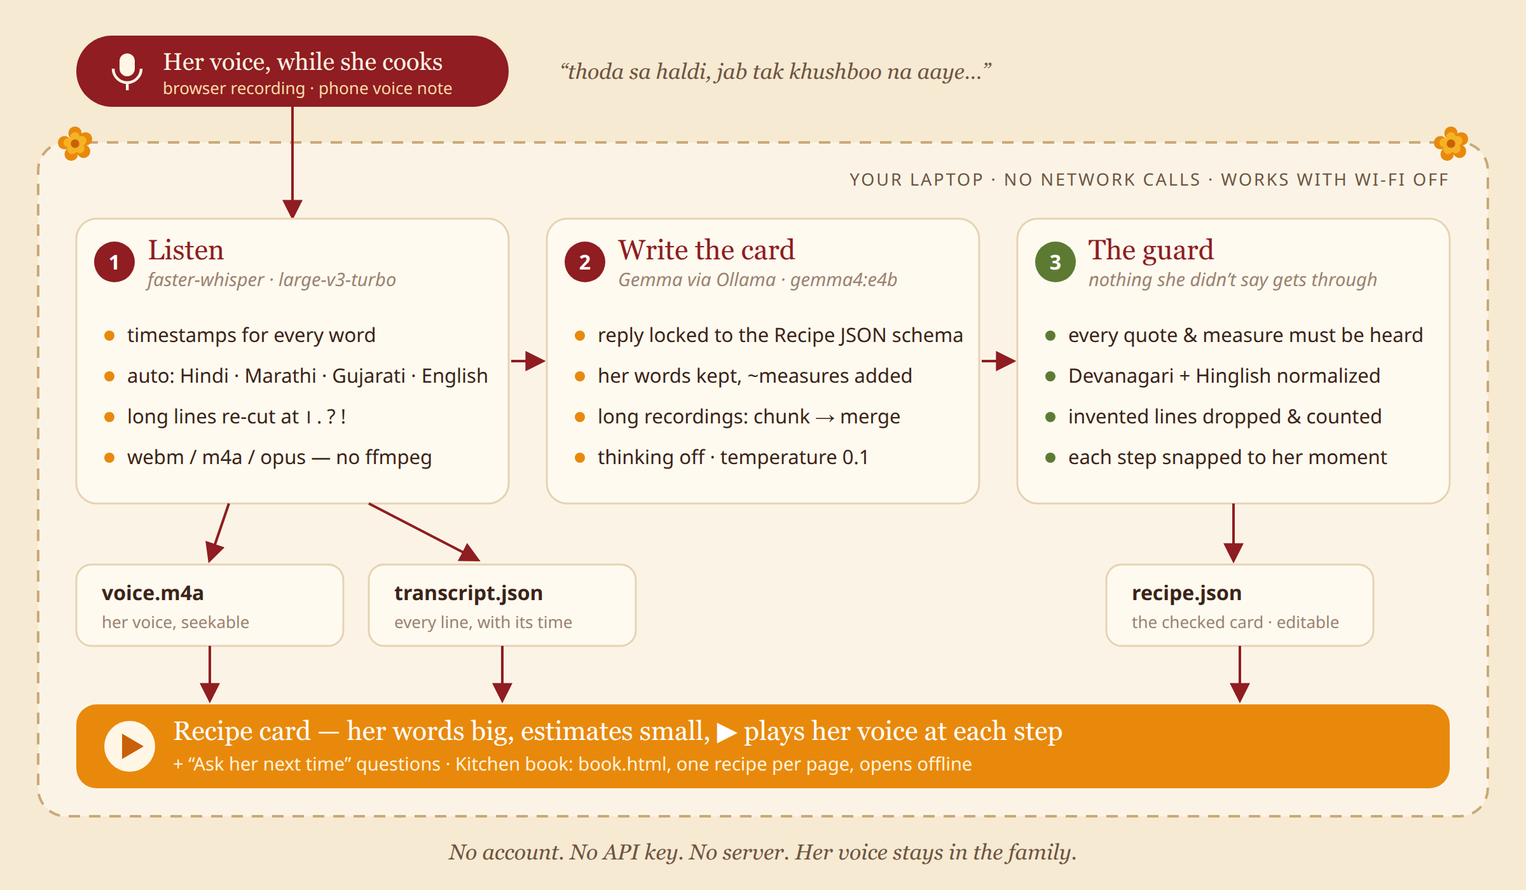
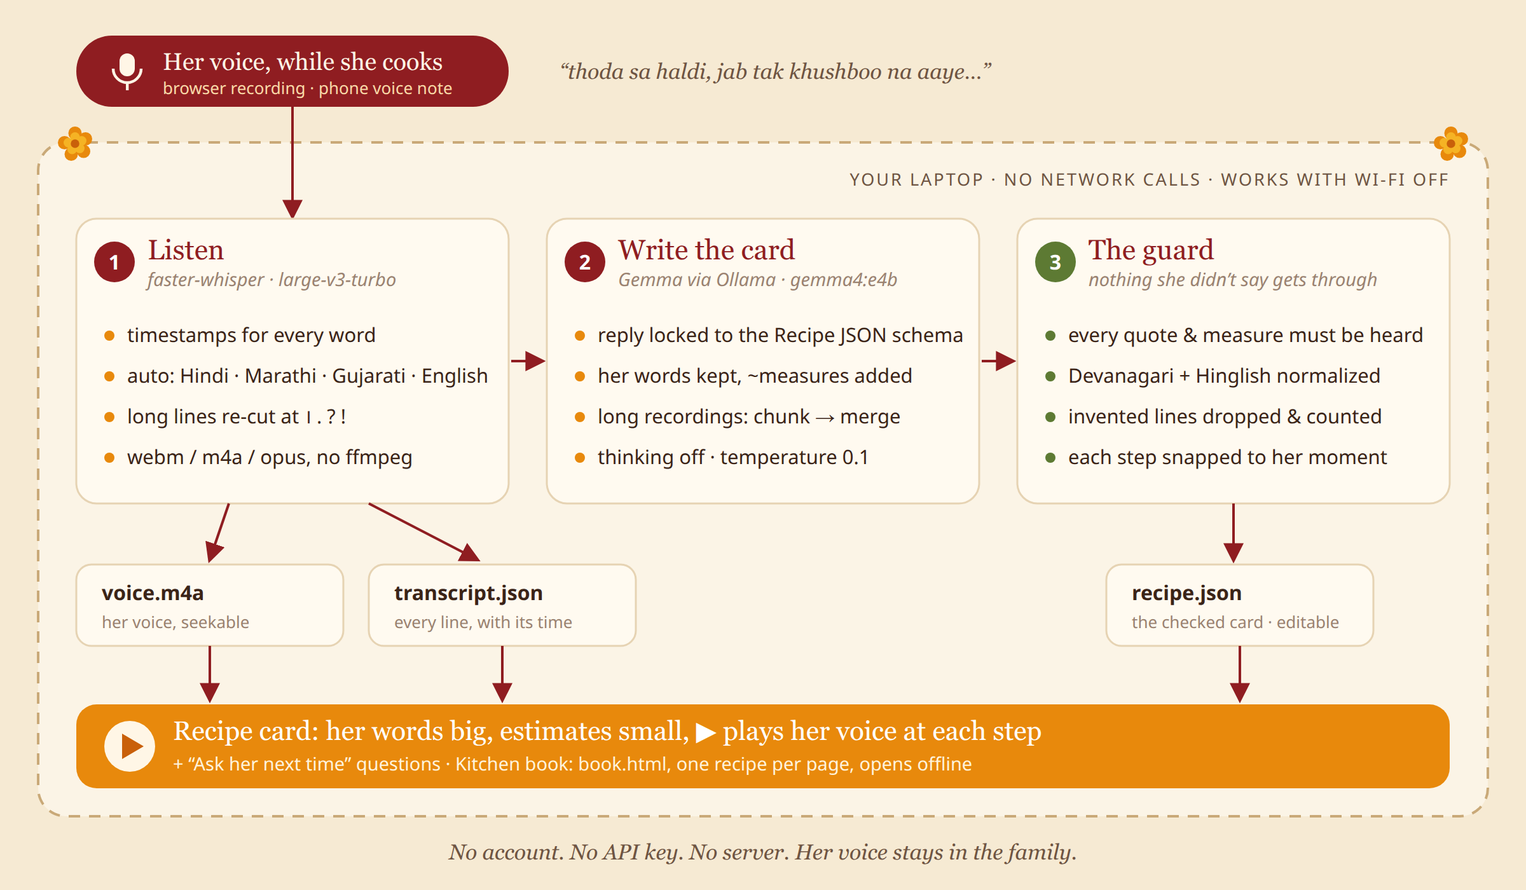
changes

Changed region(s): [[0.2188, 0.7986, 0.6875, 0.86], [0.1875, 0.4914, 0.2812, 0.5221]]

diff --git a/src/haath/static/app.js b/src/haath/static/app.js
@@ -1,9 +1,9 @@
-// Haath ka Swaad — plain JS, no build step, no network beyond 127.0.0.1.
+// Haath ka Swaad: plain JS, no build step, no network beyond 127.0.0.1.
 
 const $ = (sel, root = document) => root.querySelector(sel);
 const app = $("#app");
 
-// el("div", {class: "x", onclick: fn}, "text", child) — never uses innerHTML for data.
+// el("div", {class: "x", onclick: fn}, "text", child). Never uses innerHTML for data.
 function el(tag, attrs = {}, ...children) {
   const node = tag === "svg-use" ? svgUse(attrs.href, attrs.class) : document.createElement(tag);
   if (tag !== "svg-use") {
@@ -208,8 +208,8 @@ function recordPanel() {
     banner();
     if (!navigator.mediaDevices?.getUserMedia || !window.MediaRecorder) {
       banner("This browser can't record here.", window.isSecureContext
-        ? "use Chrome, Edge, Firefox or Safari — or upload a voice note"
-        : "phones need https: start it with  haath ui --lan  and open the https:// address — or upload a voice note");
+        ? "use Chrome, Edge, Firefox or Safari, or upload a voice note"
+        : "phones need https: start it with  haath ui --lan  and open the https:// address, or upload a voice note");
       return;
     }
     try {
@@ -266,7 +266,7 @@ function recordPanel() {
     const url = URL.createObjectURL(blob);
     preview.replaceChildren(
       el("audio", { controls: true, src: url }),
-      el("p", { class: "small muted" }, `${fmt(secs)} recorded. Listen back, then save — or record again.`),
+      el("p", { class: "small muted" }, `${fmt(secs)} recorded. Listen back, then save, or record again.`),
       el("div", { class: "row", style: "justify-content:center" },
         el("button", { class: "btn primary", onclick: () => send(blob, filename) }, "Save to the kitchen"),
         el("button", { class: "btn ghost", onclick: () => { preview.hidden = true; timer.textContent = "0:00"; } }, "Discard")));
@@ -347,7 +347,7 @@ async function renderRecipe(rid) {
           ? [el("p", { class: "big" }, el("span", { class: "busy-dot" }), STATUS[meta.status] + "…"),
              el("p", { class: "muted" }, meta.message || ""),
              el("div", { class: "progress", style: "max-width:360px;margin:10px auto" }, el("div", { style: `width:${Math.round((meta.progress || 0) * 100)}%` })),
-             el("p", { class: "small muted" }, "You can close this page — it keeps working. A 30-minute recording can take a while on a laptop.")]
+             el("p", { class: "small muted" }, "You can close this page; it keeps working. A 30-minute recording can take a while on a laptop.")]
           : [el("p", { class: "big", style: "color:var(--red)" }, meta.error || "Something went wrong."),
              meta.fix ? el("p", { class: "fix" }, "Fix: ", el("code", {}, meta.fix)) : null,
              el("div", { class: "row", style: "justify-content:center;margin-top:14px" },
@@ -366,7 +366,7 @@ async function renderRecipe(rid) {
   const stepEls = steps.map((s, i) =>
     el("li", { class: "step", "data-start": s.start_sec },
       el("button", { class: "play", type: "button", "aria-label": `Play ${who}'s voice for step ${i + 1}`, title: `Hear ${who} at ${fmt(s.start_sec)}`,
-        onclick: () => playFrom(rid, s.start_sec, `${who} — step ${i + 1}`, nextStart(i)) },
+        onclick: () => playFrom(rid, s.start_sec, `${who} · step ${i + 1}`, nextStart(i)) },
         el("span", { class: "num" }, i + 1), icon("play")),
       el("div", {},
         el("div", { class: "text" }, s.text),
@@ -375,7 +375,7 @@ async function renderRecipe(rid) {
 
   const segEls = (transcript?.segments || []).map((g) =>
     el("div", { class: "seg", "data-start": g.start, "data-end": g.end },
-      el("button", { onclick: () => playFrom(rid, g.start, `${who} — ${fmt(g.start)}`) }, fmt(g.start)),
+      el("button", { onclick: () => playFrom(rid, g.start, `${who} · ${fmt(g.start)}`) }, fmt(g.start)),
       el("span", {}, g.text)));
 
   onTimeHook = (t) => {
@@ -394,14 +394,14 @@ async function renderRecipe(rid) {
       el("span", { class: "muted" }, [meta.duration ? ` · ${fmt(meta.duration)} of her voice` : "", lang ? ` · ${lang}` : ""].join(""))),
     recipe.story ? el("p", { class: "story" }, recipe.story) : null,
     el("div", { class: "toolbar" },
-      el("button", { class: "btn primary", onclick: () => playFrom(rid, 0, `${who} — from the start`) }, icon("play"), "Hear her from the start"),
+      el("button", { class: "btn primary", onclick: () => playFrom(rid, 0, `${who} · from the start`) }, icon("play"), "Hear her from the start"),
       el("a", { class: "btn", href: `#/r/${rid}/edit` }, "Edit"),
       el("button", { class: "btn ghost", onclick: () => window.print() }, "Print"),
       el("button", { class: "btn ghost", title: `Re-run ${STATUS_INFO.model || "the model"} on the same transcript`, onclick: () => redo(rid, false, meta.edited) }, "Re-write"),
       el("button", { class: "btn ghost", onclick: () => trash(rid, meta) }, "Delete")),
     meta.dropped
       ? el("details", { class: "guard" },
-          el("summary", {}, `✓ Checked against her recording — ${meta.dropped} line${meta.dropped > 1 ? "s" : ""} the model wrote but she never said ${meta.dropped > 1 ? "were" : "was"} removed.`),
+          el("summary", {}, `✓ Checked against her recording: ${meta.dropped} line${meta.dropped > 1 ? "s" : ""} the model wrote but she never said ${meta.dropped > 1 ? "were" : "was"} removed.`),
           el("ul", {}, meta.dropped_items.map((d) => el("li", {}, d))))
       : el("div", { class: "guard" }, "✓ Every quote and measure below was checked against her recording."),
 
@@ -410,8 +410,8 @@ async function renderRecipe(rid) {
         el("li", { class: "ing" },
           g.her_words ? el("div", { class: "her" }, g.her_words) : null,
           el("div", { class: "name" }, g.name),
-          g.approx ? el("div", { class: "approx", title: `Approximate — ${g.confidence} confidence` }, g.approx, " approx.", el("span", { class: "conf " + g.confidence })) : null))),
-      el("p", { class: "small muted", style: "margin-top:8px" }, "Big writing is how she said it. Small measures are estimates — trust her words first.")),
+          g.approx ? el("div", { class: "approx", title: `Approximate, ${g.confidence} confidence` }, g.approx, " approx.", el("span", { class: "conf " + g.confidence })) : null))),
+      el("p", { class: "small muted", style: "margin-top:8px" }, "Big writing is how she said it. Small measures are estimates, so trust her words first.")),
 
     section("Method", "diya", el("ol", { class: "steps" }, stepEls),
       el("p", { class: "small muted" }, "Press ▶ to hear her explain that step in her own voice.")),
@@ -424,12 +424,12 @@ async function renderRecipe(rid) {
       : null,
 
     recipe.quotes.length
-      ? section("In her words", null, el("div", { class: "quotes" }, recipe.quotes.map((q) => el("blockquote", {}, q, el("cite", {}, "— " + who)))))
+      ? section("In her words", null, el("div", { class: "quotes" }, recipe.quotes.map((q) => el("blockquote", {}, q, el("cite", {}, "· " + who)))))
       : null,
 
     recipe.ask_next_time.length
       ? section("Ask her next time", null, el("ul", { class: "asks" }, recipe.ask_next_time.map((q) => el("li", {}, q))),
-          el("p", { class: "small muted" }, "Little gaps in the recipe. Ask while you still can — then fix the card with Edit."))
+          el("p", { class: "small muted" }, "Little gaps in the recipe. Ask while you still can, then fix the card with Edit."))
       : null,
 
     transcript
@@ -476,7 +476,7 @@ async function renderEdit(rid) {
   const area = (obj, key, attrs = {}) => el("textarea", { oninput: (e) => (obj[key] = e.target.value), ...attrs }, obj[key] ?? "");
   const listArea = (key, label, hint) => {
     const t = el("textarea", { id: "f-" + key, oninput: (e) => (r[key] = e.target.value.split("\n").map((s) => s.trim()).filter(Boolean)) }, r[key].join("\n"));
-    return el("div", { class: "field" }, el("label", { for: "f-" + key }, label, el("span", { class: "muted" }, " — " + hint)), t);
+    return el("div", { class: "field" }, el("label", { for: "f-" + key }, label, el("span", { class: "muted" }, " · " + hint)), t);
   };
 
   const ingBox = el("div", { class: "rowset" });
@@ -510,7 +510,7 @@ async function renderEdit(rid) {
   app.replaceChildren(el("div", { class: "recipe edit" },
     el("a", { class: "back", href: `#/r/${rid}` }, "← Back to the card"),
     el("article", { class: "sheet" },
-      el("p", { class: "kicker" }, "Fix anything by hand — you know her better than the machine does"),
+      el("p", { class: "kicker" }, "Fix anything by hand. You know her better than the machine does"),
       el("h1", { class: "dish" }, "Edit recipe"),
       el("div", { class: "row", style: "margin-top:16px" },
         el("div", { class: "field" }, el("label", {}, "Dish"), input(r, "dish")),
@@ -536,7 +536,7 @@ async function renderEdit(rid) {
 (async () => {
   try {
     STATUS_INFO = await api("/api/status");
-    if (STATUS_INFO.mock) banner("Mock mode: recordings use a sample Dal Baati transcript and reply — no Whisper or Ollama needed.");
+    if (STATUS_INFO.mock) banner("Mock mode: recordings use a sample Dal Baati transcript and reply, no Whisper or Ollama needed.");
     else {
       const { checks } = await api("/api/doctor");
       const bad = checks.find((c) => !c.ok && c.required);

diff --git a/src/haath/static/index.html b/src/haath/static/index.html
@@ -4,7 +4,7 @@
   <meta charset="utf-8">
   <meta name="viewport" content="width=device-width, initial-scale=1, viewport-fit=cover">
   <meta name="theme-color" content="#f6ead3">
-  <title>Haath ka Swaad — family recipes in her own words</title>
+  <title>Haath ka Swaad · family recipes in her own words</title>
   <link rel="icon" href="/static/diya.svg" type="image/svg+xml">
   <link rel="stylesheet" href="/static/fonts.css">
   <link rel="stylesheet" href="/static/app.css">
@@ -62,7 +62,7 @@
   <audio id="voice" preload="metadata"></audio>
 
   <footer class="foot">
-    <p>Everything stays on this laptop. Whisper + Gemma run locally — works with Wi-Fi off.</p>
+    <p>Everything stays on this laptop. Whisper + Gemma run locally and work with Wi-Fi off.</p>
   </footer>
 
   <script src="/static/app.js" type="module"></script>

diff --git a/src/haath/static/fonts.css b/src/haath/static/fonts.css
@@ -1,4 +1,4 @@
-/* Kalam, Tiro Devanagari Hindi, Mukta — SIL Open Font License 1.1, see fonts/OFL-*.txt */
+/* Kalam, Tiro Devanagari Hindi, Mukta, SIL Open Font License 1.1, see fonts/OFL-*.txt */
 @font-face {
   font-family: "Kalam";
   font-style: normal;

diff --git a/src/haath/static/app.css b/src/haath/static/app.css
@@ -1,4 +1,4 @@
-/* Haath ka Swaad — a kitchen notebook, warm paper, marigold and sindoor red. */
+/* Haath ka Swaad: a kitchen notebook, warm paper, marigold and sindoor red. */
 :root {
   --paper: #f6ead3;
   --paper-2: #fbf4e6;

diff --git a/src/haath/llm.py b/src/haath/llm.py
@@ -23,7 +23,7 @@ You turn a home cook's spoken explanation into a family recipe card. She speaks 
 Hindi, Marathi, Gujarati, English or a mix (Hinglish). The transcript comes from \
 speech-to-text, one line per segment, each starting with its time in seconds: [83.4] ...
 
-RULES — follow all of them:
+RULES (follow all of them):
 1. Use ONLY what is in the transcript. Never invent an ingredient, step, tip, story or quote. \
 If she did not say it, leave it out.
 2. Her measures stay exactly as she said them, in `her_words`, copied character-for-character \
@@ -31,25 +31,25 @@ from the transcript in the same script (Devanagari stays Devanagari, Roman stays
 Examples: "ek mutthi atta", "andaaz se namak", "थोड़ा सा हल्दी".
 3. Your estimate goes ONLY in `approx`: a NUMBER with a kitchen unit, starting with "~", \
 e.g. "~1 cup / 120 g", "~1/2 tsp", "~2 tbsp", "~1 pinch". Never write "to taste", "a little" \
-or "plenty" — that is what her_words is for; turn it into your best numeric guess for a family \
+or "plenty"; that is what her_words is for; turn it into your best numeric guess for a family \
 of four. `confidence` is "high" ONLY if she said a number ("do cup", "teen seeti"); "med" for a \
 known household measure ("ek katori", "do mutthi"); "low" for andaaz/thoda sa/khoob sara. \
 If she gave one amount for several things together ("teeno mila ke ek katori"), make ONE \
-ingredient for the mix — do not repeat the amount for each.
+ingredient for the mix; do not repeat the amount for each.
 4. `name` is the ingredient in simple English with her word in brackets: "Turmeric (haldi)", \
 "Semolina (sooji)".
 5. `steps[].text` is a short, clear instruction in simple English, in the order she does \
 them. Combine consecutive lines about the same action into one step. A warning is not a \
-step — put it in `warnings`. `her_cue` is her sensory \
+step; put it in `warnings`. `her_cue` is her sensory \
 cue copied exactly from the transcript ("jab tak tel chhod de", "khushboo aane tak"), \
 or "" if she gave none. `start_sec` is copied exactly from the [time] label of the line where \
 she explains that step.
-6. `quotes`: up to 3 memorable lines copied exactly from the transcript — warmth, wisdom, humour.
+6. `quotes`: up to 3 memorable lines copied exactly from the transcript: warmth, wisdom, humour.
 7. `tips` and `warnings`: only ones she actually said ("dhakkan mat kholna"). English is fine, \
-keep her phrase in brackets. Each goes in one list only — a warning is not also a tip.
-8. `story`: one line about the dish's origin, occasion or who loved it — only if she said so, else "".
+keep her phrase in brackets. Each goes in one list only; a warning is not also a tip.
+8. `story`: one line about the dish's origin, occasion or who loved it, only if she said so, else "".
 9. `ask_next_time`: what SHE skipped or left unclear in THIS transcript, as short questions to ask \
-her — missing times, amounts, temperatures, how many it serves. The style, for a different dish: \
+her: missing times, amounts, temperatures, how many it serves. The style, for a different dish: \
 {examples}. Never copy these; never ask about something she already said.
 10. Speech-to-text makes mistakes. In `name`, `text`, tips you may fix an obvious mistake \
 (e.g. a misheard spice name). Do not guess beyond that. Never change her_words, her_cue or quotes.
@@ -277,7 +277,7 @@ def write_recipe(
 ) -> Recipe:
     """Run Gemma over the transcript (chunked if needed) and return the merged, un-verified Recipe."""
     if not transcript.segments:
-        raise HaathError("The transcript is empty — no speech was heard in the recording.", "check the mic, then record again closer to her (phone ~1 m away)")
+        raise HaathError("The transcript is empty: no speech was heard in the recording.", "check the mic, then record again closer to her (phone ~1 m away)")
     chunks = chunk_segments(transcript.segments, num_ctx)
     if ask is None:
         client = make_client(host)

diff --git a/src/haath/book.py b/src/haath/book.py
@@ -147,7 +147,7 @@ def render_recipe(meta: Meta, r: Recipe, audio_src: str) -> str:
             out.append('<div class="note w"><h4>Careful!</h4><ul>' + "".join(f"<li>{e(t)}</li>" for t in r.warnings) + "</ul></div>")
         out.append("</div>")
     for q in r.quotes:
-        out.append(f"<blockquote>{e(q)} <small>— {who}</small></blockquote>")
+        out.append(f"<blockquote>{e(q)} <small>· {who}</small></blockquote>")
     if r.ask_next_time:
         out.append('<h3>Ask her next time</h3><ul class="asks">' + "".join(f"<li>{e(q)}</li>" for q in r.ask_next_time) + "</ul>")
     out.append(f'<p class="foot">Recorded {e(meta.created[:10])} · kept in recipes/{e(meta.id)}/</p></section>')
@@ -166,17 +166,17 @@ def render_book(archive: Archive, audio_url: Callable[[str], str], inline_assets
     cover = (
         '<section class="page cover">'
         f'<div class="flowers">{MARIGOLD * 5}</div>'
-        '<h1 lang="hi">हाथ का स्वाद</h1><div class="en">Haath ka Swaad — the family kitchen book</div>'
+        '<h1 lang="hi">हाथ का स्वाद</h1><div class="en">Haath ka Swaad · the family kitchen book</div>'
         '<div class="tag">For every recipe that only exists in her hands.</div>'
         + (f'<p class="by">with {escape(", ".join(cooks))}</p>' if cooks else "")
-        + (f'<ul class="toc">{toc}</ul>' if entries else '<p class="by">No finished recipes yet — record one with <b>haath ui</b>.</p>')
+        + (f'<ul class="toc">{toc}</ul>' if entries else '<p class="by">No finished recipes yet. Record one with <b>haath ui</b>.</p>')
         + f'<p class="foot">Made {datetime.now():%d %B %Y} · everything in this book stayed on the family laptop</p></section>'
     )
     pages = "\n".join(render_recipe(m, r, audio_url(m.id)) for m, r in entries)
     return (
         '<!doctype html><html lang="en"><head><meta charset="utf-8">'
         '<meta name="viewport" content="width=device-width, initial-scale=1">'
-        f"<title>Haath ka Swaad — Kitchen book</title>{fonts}<style>{BOOK_CSS}</style></head><body>"
+        f"<title>Haath ka Swaad · Kitchen book</title>{fonts}<style>{BOOK_CSS}</style></head><body>"
         '<div class="bar">The family kitchen book · ▶ plays her voice · <button onclick="print()">Print / save as PDF</button></div>'
         f"{cover}\n{pages}<script>{BOOK_JS}</script></body></html>"
     )

diff --git a/src/haath/cli.py b/src/haath/cli.py
@@ -76,7 +76,7 @@ def cmd_add(args) -> int:
 def _print_done(archive: Archive, rid: str) -> None:
     meta = archive.load_meta(rid)
     recipe = archive.load_recipe(rid)
-    print(f"\n  {recipe.dish or 'Recipe'} — as told by {recipe.cook or 'her'}")
+    print(f"\n  {recipe.dish or 'Recipe'}, as told by {recipe.cook or 'her'}")
     print(f"  {len(recipe.ingredients)} ingredients, {len(recipe.steps)} steps, {len(recipe.ask_next_time)} questions for next time")
     if meta.dropped:
         print(f"  Guard removed {meta.dropped} line(s) the model wrote that she never said:")
@@ -117,7 +117,7 @@ def cmd_book(args) -> int:
 
     s = _settings(args)
     out = write_book(Archive(s.archive), Path(args.out).expanduser() if args.out else None)
-    print(f"Wrote {out}\nDouble-click it to open — it works offline. Keep it next to the recipes/ folder so her voice plays.")
+    print(f"Wrote {out}\nDouble-click it to open; it works offline. Keep it next to the recipes/ folder so her voice plays.")
     return 0
 
 
@@ -125,12 +125,12 @@ def cmd_doctor(args) -> int:
     from haath.doctor import print_report, run_checks
 
     s = _settings(args)
-    print(f"haath {__version__} — checking what's needed to run fully offline\n")
+    print(f"haath {__version__}: checking what's needed to run fully offline\n")
     return 0 if print_report(run_checks(s, download=args.download)) else 1
 
 
 def build_parser() -> argparse.ArgumentParser:
-    ap = argparse.ArgumentParser(prog="haath", description="Haath ka Swaad — for every recipe that only exists in her hands.")
+    ap = argparse.ArgumentParser(prog="haath", description="Haath ka Swaad: for every recipe that only exists in her hands.")
     ap.add_argument("--version", action="version", version=f"haath {__version__}")
     sub = ap.add_subparsers(dest="cmd", required=True)
 

diff --git a/src/haath/server.py b/src/haath/server.py
@@ -104,7 +104,7 @@ def create_app(settings: Settings, start_worker: bool = True) -> FastAPI:
     def save_recipe(rid: str, body: dict):
         meta = _get(rid)
         if meta.status not in ("done", "error"):
-            raise HaathError("Still being written — wait until it's done before editing.", "")
+            raise HaathError("Still being written. Wait until it's done before editing.", "")
         try:
             r = Recipe.model_validate(body)
         except ValidationError as e:
@@ -152,6 +152,8 @@ def serve(settings: Settings, port: int = DEFAULT_PORT, open_browser: bool = Tru
 
     host = "0.0.0.0" if lan else "127.0.0.1"
     with socket.socket() as probe:
+        # Same option uvicorn uses, so a just-closed haath ui (port in TIME_WAIT) isn't "busy".
+        probe.setsockopt(socket.SOL_SOCKET, socket.SO_REUSEADDR, 1)
         try:
             probe.bind((host, port))
         except OSError as e:
@@ -170,7 +172,7 @@ def serve(settings: Settings, port: int = DEFAULT_PORT, open_browser: bool = Tru
         print("  Mock mode: recordings use a sample transcript + reply (no Whisper/Ollama).")
     if lan:
         print(f"  On your Wi-Fi (phone on the kitchen counter): https://{ip}:{port}/")
-        print("  The phone will warn about the certificate once — it's this laptop's own, made just now.")
+        print("  The phone will warn about the certificate once; it's this laptop's own, made just now.")
         print("  Tap Advanced → Proceed, then the Record button works on the phone too.")
         print("  Anyone on this Wi-Fi can open the page while it runs; stop with Ctrl+C when done.")
     print("  Press Ctrl+C to close.\n", flush=True)

diff --git a/src/haath/verify.py b/src/haath/verify.py
@@ -15,6 +15,7 @@ text, so what is shown is always what was heard.
 
 from __future__ import annotations
 
+import re
 import unicodedata
 from dataclasses import dataclass, field
 from difflib import SequenceMatcher
@@ -153,6 +154,10 @@ _CONF_ORDER = {"low": 0, "med": 1, "high": 2}
 
 def _join_names(names: list[str]) -> str:
     return names[0] if len(names) == 1 else ", ".join(names[:-1]) + " and " + names[-1]
+
+
+def no_em_dash(text: str) -> str:
+    return re.sub(r"\s*—\s*", ", ", text or "").strip(", ")
 
 
 def merge_shared_amounts(index: TranscriptIndex, ingredients: list[Ingredient]) -> list[Ingredient]:
@@ -296,6 +301,14 @@ def verify_recipe(recipe: Recipe, transcript: Transcript) -> tuple[Recipe, Verif
             ing.confidence = "med"  # "high" only when she actually said an amount
 
     r.ingredients = merge_shared_amounts(index, r.ingredients)
+
+    # House style: no em dashes in the card's own (English) text. Her words are left as heard.
+    r.story = no_em_dash(r.story)
+    for ing in r.ingredients:
+        ing.name, ing.approx = no_em_dash(ing.name), no_em_dash(ing.approx)
+    for step in r.steps:
+        step.text = no_em_dash(step.text)
+    r.tips, r.warnings, r.ask_next_time = ([no_em_dash(x) for x in xs] for xs in (r.tips, r.warnings, r.ask_next_time))
 
     # The same line listed as both a tip and a warning reads as a glitch; keep it as a warning.
     warned = {normalize(w) for w in r.warnings}

diff --git a/src/haath/doctor.py b/src/haath/doctor.py
@@ -52,14 +52,14 @@ def check_whisper(settings: Settings, download: bool = False) -> list[Check]:
         import faster_whisper  # noqa: F401
         import av
 
-        checks.append(Check("faster-whisper + PyAV", True, f"PyAV {av.__version__} decodes webm/m4a/opus/mp3 — no ffmpeg needed"))
+        checks.append(Check("faster-whisper + PyAV", True, f"PyAV {av.__version__} decodes webm/m4a/opus/mp3, no ffmpeg needed"))
     except ImportError as e:
         return [Check("faster-whisper", False, str(e), "run: pip install faster-whisper   (or reinstall: uv tool install .)")]
 
     from haath.transcribe import download_whisper, pick_device, whisper_cached
 
     device, compute = pick_device()
-    checks.append(Check("Compute device", True, f"{device} ({compute})" + ("" if device == "cuda" else " — fine; a GPU is just faster"), required=False))
+    checks.append(Check("Compute device", True, f"{device} ({compute})" + ("" if device == "cuda" else " (fine; a GPU is just faster)"), required=False))
 
     if not whisper_cached(settings.whisper_model) and download:
         print(f"  … downloading Whisper '{settings.whisper_model}' (one time, ~1.6 GB for large-v3-turbo, ~0.5 GB for small)", flush=True)

diff --git a/src/haath/transcribe.py b/src/haath/transcribe.py
@@ -68,8 +68,8 @@ CLAUSE_END = (",", ";", ":", "،")
 
 def split_long_segments(segments: list[Segment], max_sec: float = 8.0) -> list[Segment]:
     """Whisper (with VAD) often returns 20–30 s segments holding several steps, so ▶ would start
-    every one of those steps at the same moment. Re-cut them at sentence ends — then, if still
-    long, at commas — using the word timestamps, so each line starts where she says it."""
+    every one of those steps at the same moment. Re-cut them at sentence ends (then, if still
+    long, at commas) using the word timestamps, so each line starts where she says it."""
     out: list[Segment] = []
 
     def cut(words: list[Word], marks: tuple[str, ...]) -> list[list[Word]]:

diff --git a/tests/test_verify.py b/tests/test_verify.py
@@ -140,3 +140,12 @@ def test_same_estimate_far_apart_not_merged(hindi_transcript):
     ])
     out, _ = verify_recipe(r, hindi_transcript)
     assert len(out.ingredients) == 2
+
+
+def test_card_text_has_no_em_dashes_but_her_words_untouched(hindi_transcript):
+    r = Recipe(story="Nanaji loved it — every Diwali", steps=[Step(text="Fry — until golden", her_cue="tel chhod de")],
+               tips=["Use ghee—lots"], quotes=["Dhakkan mat kholna beech mein"])
+    out, _ = verify_recipe(r, hindi_transcript)
+    assert out.story == "Nanaji loved it, every Diwali"
+    assert out.steps[0].text == "Fry, until golden" and out.tips == ["Use ghee, lots"]
+    assert out.quotes == ["Dhakkan mat kholna beech mein"]
